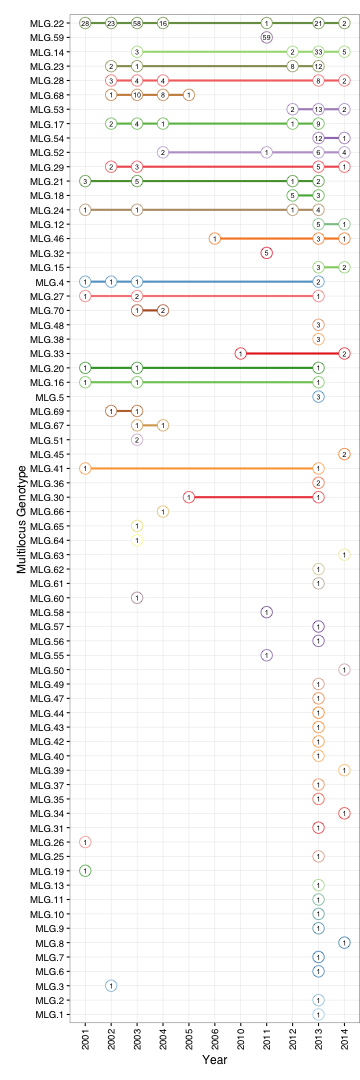
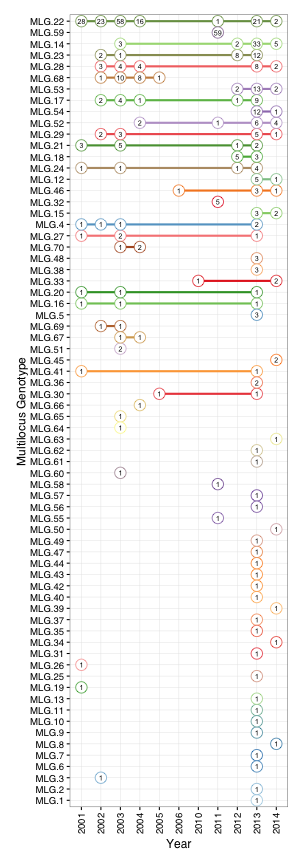
update parameters for first post

diff --git a/_posts/2016-02-10-recreating-fig-3.md b/_posts/2016-02-10-recreating-fig-3.md
@@ -4,6 +4,8 @@ layout: 'post'
 tags: ['R', 'poppr', 'multilocus genotype', 'ggplot2']
 ---
 
+
+
 Motivation
 ==========
 
@@ -109,7 +111,7 @@ bars <- ggplot(mlg_order, aes(x = MLG, y = Count, fill = MLG)) +
 bars
 {% endhighlight %}
 
-![plot of chunk barplot](http://zkamvar.github.io/figures/2016-02-10-recreating-fig-3/barplot-1.png)
+<img src="http://zkamvar.github.io/figures/2016-02-10-recreating-fig-3/barplot-1.png" title="plot of chunk barplot" alt="plot of chunk barplot" width="1000px" />
 
 Creating the Subway plot
 ------------------------
@@ -139,7 +141,7 @@ names(mlg_range)[2] <- "Year"
   scale_y_discrete(limits = mlg_order$MLG))
 {% endhighlight %}
 
-![plot of chunk subwayplot](http://zkamvar.github.io/figures/2016-02-10-recreating-fig-3/subwayplot-1.png)
+<img src="http://zkamvar.github.io/figures/2016-02-10-recreating-fig-3/subwayplot-1.png" title="plot of chunk subwayplot" alt="plot of chunk subwayplot" width="1000px" />
 
 
 Aligning with cowplot
@@ -157,7 +159,7 @@ over to the other in 2 minutes in inkscape.
 plot_grid(ranges, bars, align = "h", rel_widths = c(2.5, 1))
 {% endhighlight %}
 
-![plot of chunk cowplot](http://zkamvar.github.io/figures/2016-02-10-recreating-fig-3/cowplot-1.png)
+<img src="http://zkamvar.github.io/figures/2016-02-10-recreating-fig-3/cowplot-1.png" title="plot of chunk cowplot" alt="plot of chunk cowplot" width="1000px" />
 
 Conclusion
 ==========
@@ -192,7 +194,7 @@ devtools::session_info()
 ##  language (EN)                        
 ##  collate  en_US.UTF-8                 
 ##  tz       America/Los_Angeles         
-##  date     2016-09-04
+##  date     2016-09-05
 {% endhighlight %}
 
 
@@ -252,6 +254,8 @@ devtools::session_info()
 ##  R6           2.1.3       2016-08-19 cran (@2.1.3)                           
 ##  Rcpp         0.12.6      2016-07-19 CRAN (R 3.3.0)                          
 ##  reshape2     1.4.1       2014-12-06 CRAN (R 3.2.0)                          
+##  rmarkdown    1.0.9010    2016-08-24 Github (rstudio/rmarkdown@242be4a)      
+##  rsconnect    0.4.3       2016-05-02 CRAN (R 3.3.0)                          
 ##  rstudioapi   0.6         2016-06-27 cran (@0.6)                             
 ##  scales       0.4.0       2016-02-26 CRAN (R 3.2.3)                          
 ##  seqinr       3.3-0       2016-07-19 CRAN (R 3.3.0)                          
@@ -263,7 +267,8 @@ devtools::session_info()
 ##  tibble       1.2         2016-08-26 cran (@1.2)                             
 ##  vegan        2.4-0       2016-06-15 CRAN (R 3.3.0)                          
 ##  withr        1.0.2       2016-06-20 cran (@1.0.2)                           
-##  xtable       1.8-2       2016-02-05 CRAN (R 3.2.3)
+##  xtable       1.8-2       2016-02-05 CRAN (R 3.2.3)                          
+##  yaml         2.1.13      2014-06-12 CRAN (R 3.2.0)
 {% endhighlight %}
 [fig3]: https://www.researchgate.net/publication/278039693_Spatial_and_Temporal_Analysis_of_Populations_of_the_Sudden_Oak_Death_Pathogen_in_Oregon_Forests/figures
 [sod]: http://apsjournals.apsnet.org/doi/10.1094/PHYTO-12-14-0350-FI
